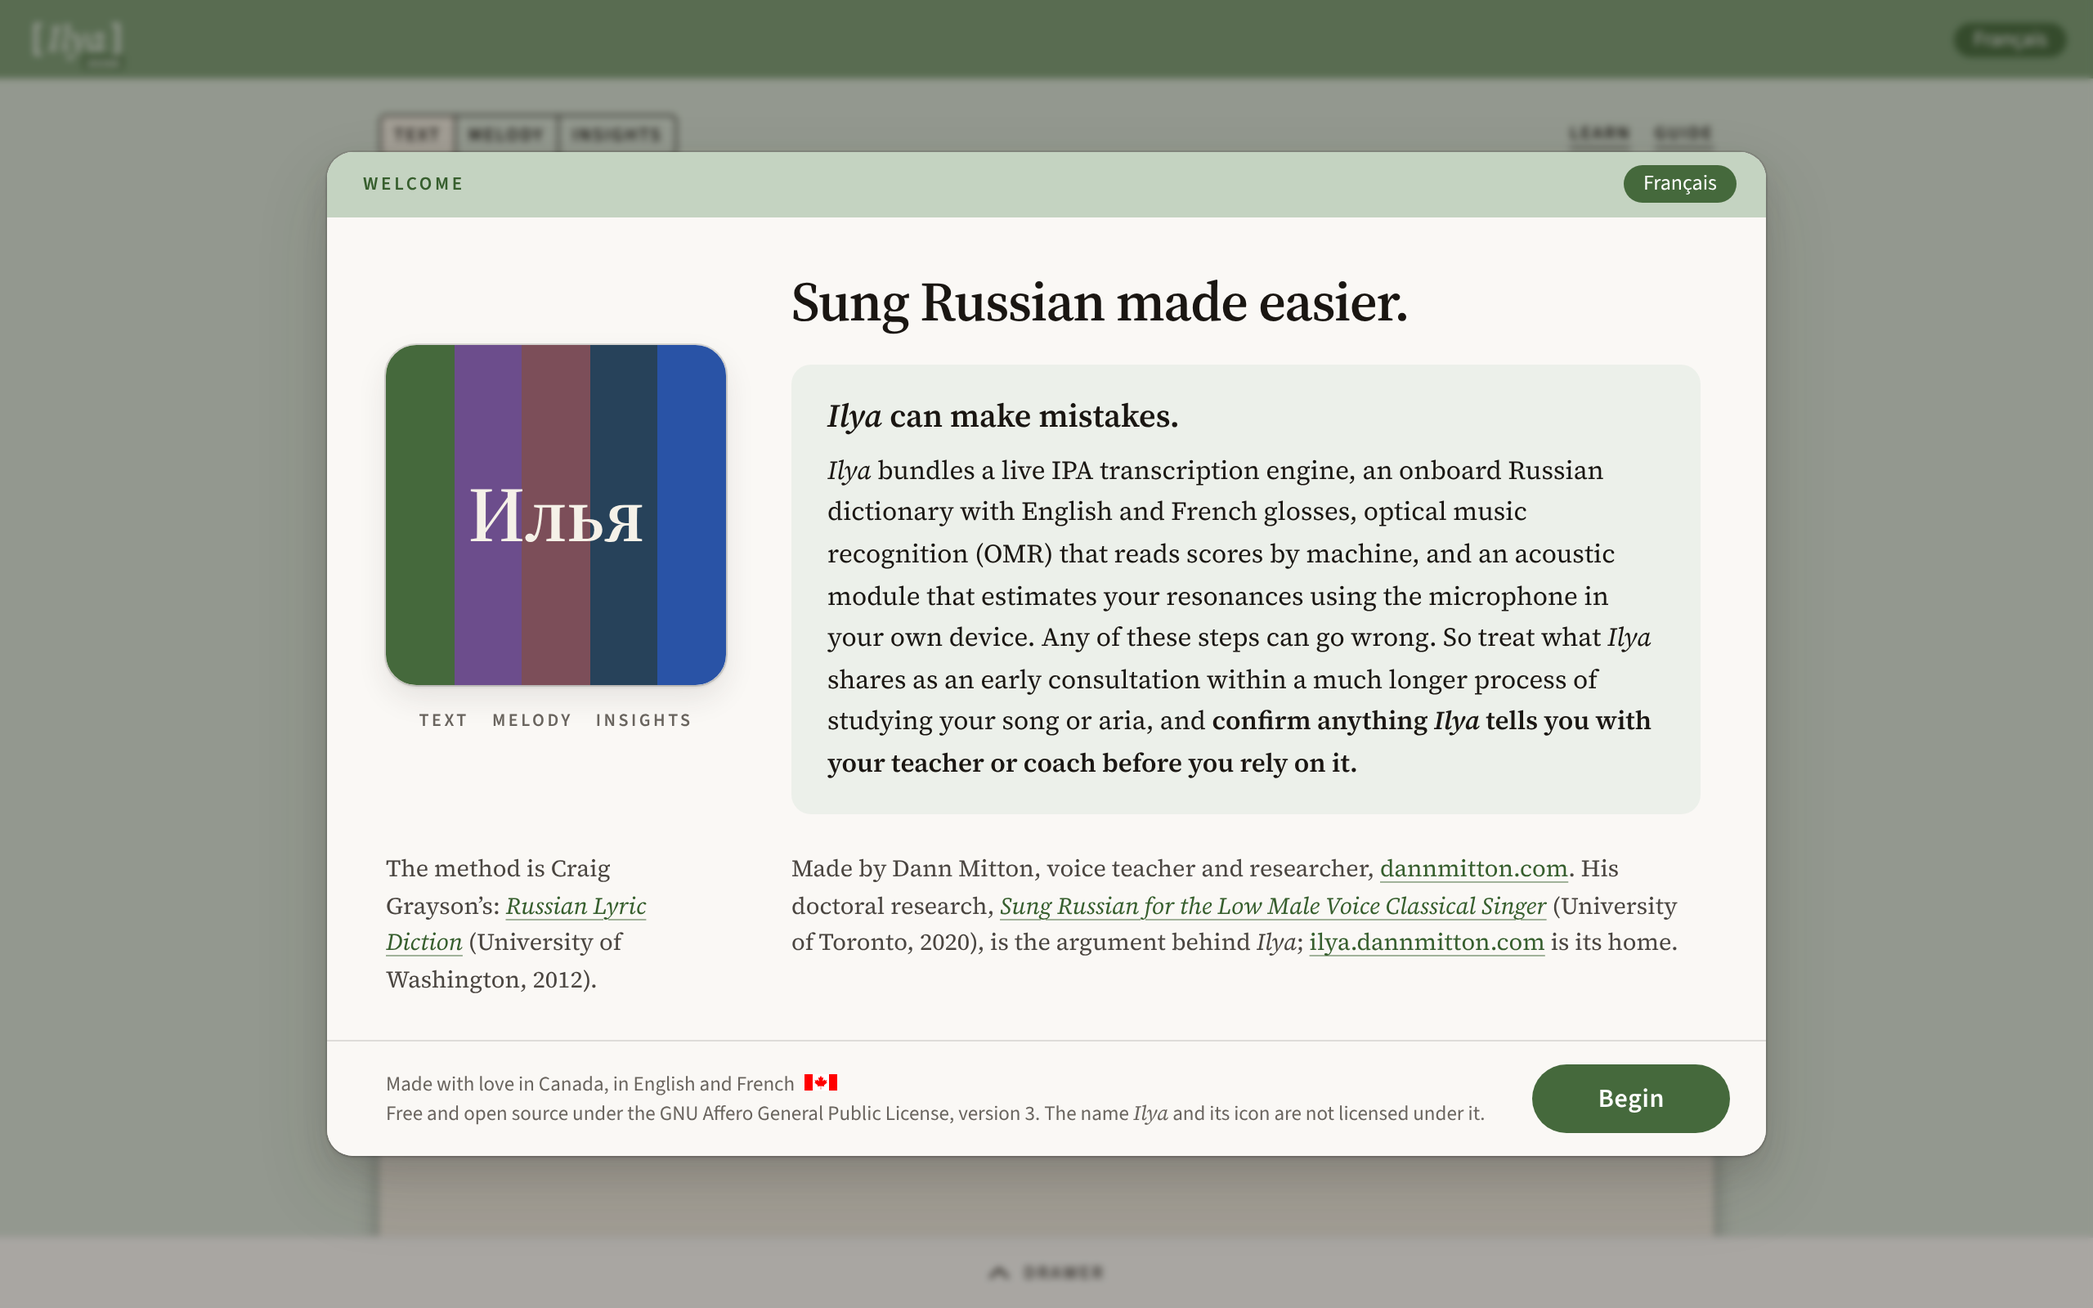
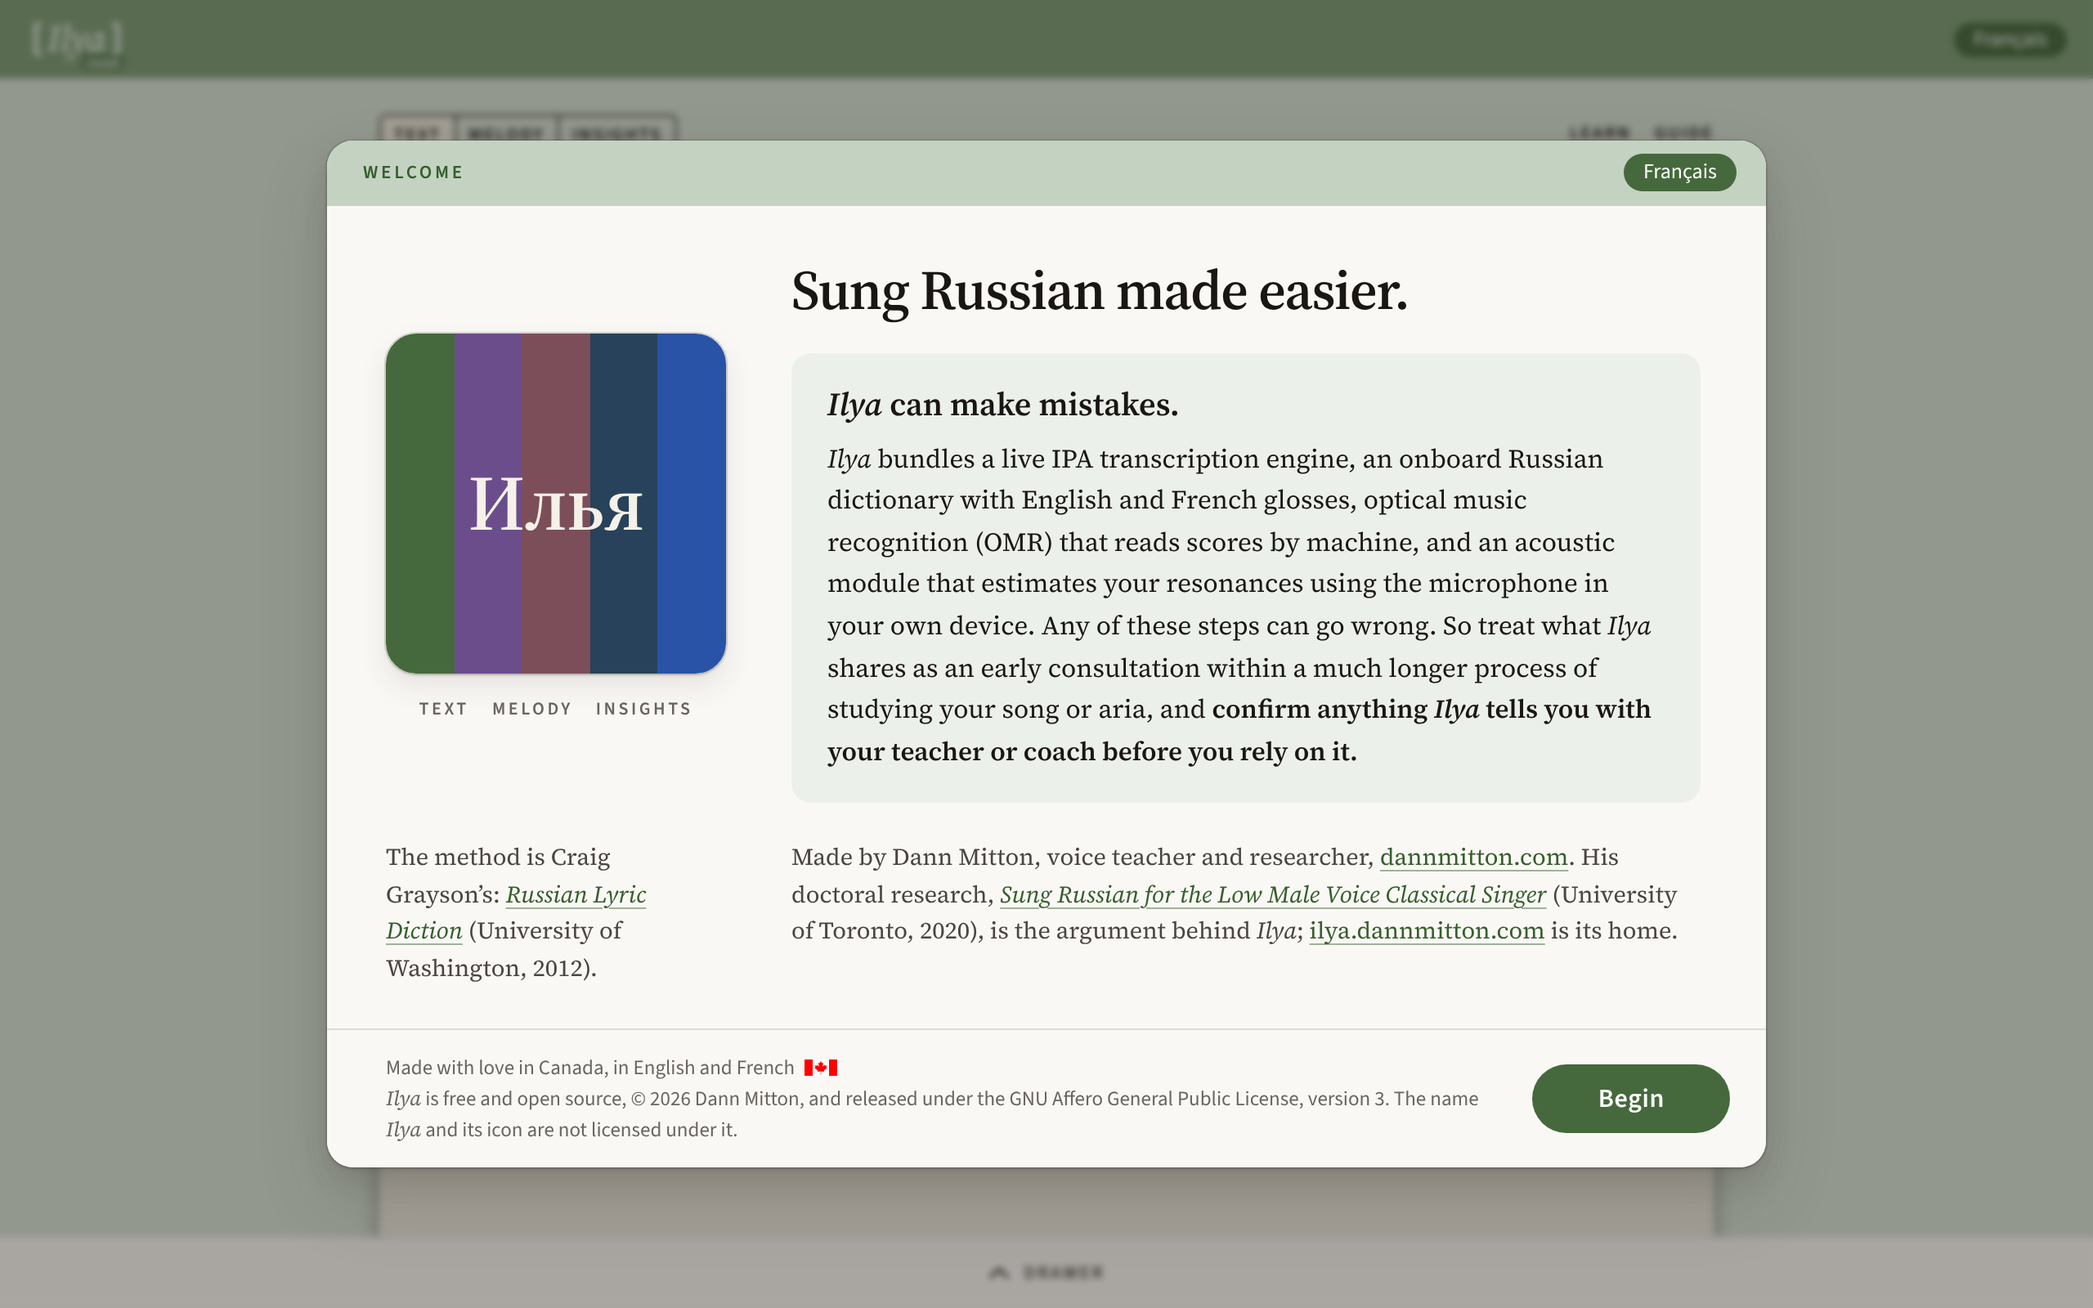
Welcome sheet: the English licence line carries the copyright, as the French does (Dann 2026-11-15 13:20)
Claude-Session: https://claude.ai/code/session_01Vk7wM5aNQf5Spwx7yyqbNN

diff --git a/apps/web/src/lib/welcome-strings.test.ts b/apps/web/src/lib/welcome-strings.test.ts
@@ -4,7 +4,11 @@
  * prototypes he ratified (`docs/sessions/welcome-sheet/ilya-welcome-draft-17.html` and `-17-fr.html`), not typed. Ratification is approval at a moment
  * (CONTRACT 11a): when Dann changes one, change it here in the same breath.
  *
- * The only difference from the prototype's markup is one attribute: each link opens in a new tab (`target="_blank" rel="noopener"`), as
+ * THE ENGLISH LICENCE LINE IS NOT THE PROTOTYPE'S. Ruled by Dann 2026-11-15 13:20: it carries the copyright as the French line does, and is the first two
+ * sentences of the GUIDE's ratified English paragraph (`GuideContent.svelte:579`) with both "Ilya" in italics and the prototype's no-break space before the 3. It supersedes
+ * the OPEN.md bullet that says to copy the licence line from the prototype, for English only. The French line is still the prototype's.
+ *
+ * The only other difference from the prototype's markup is one attribute: each link opens in a new tab (`target="_blank" rel="noopener"`), as
  * `footer.attribution`'s do, so a singer who follows one does not leave the sheet. The words, the tags, and the entities are the prototype's.
  */
 import { readFileSync } from 'node:fs';
@@ -19,7 +23,7 @@ const PAIRS: ReadonlyArray<readonly [string, string, string]> = [
 	['welcome.method', "The method is Craig Grayson’s: <a target=\"_blank\" rel=\"noopener\" href=\"https://hdl.handle.net/1773/20548\"><em>Russian Lyric Diction</em></a> (University of Washington, 2012).", "La méthode est celle de Craig Grayson : <a target=\"_blank\" rel=\"noopener\" href=\"https://hdl.handle.net/1773/20548\"><em>Russian Lyric Diction</em></a> (University of Washington, 2012)."],
 	['welcome.maker', "Made by Dann Mitton, voice teacher and researcher, <a target=\"_blank\" rel=\"noopener\" href=\"https://dannmitton.com\">dannmitton.com</a>. His doctoral research, <a target=\"_blank\" rel=\"noopener\" href=\"https://hdl.handle.net/1807/100864\"><em>Sung Russian for the Low Male Voice Classical Singer</em></a> (University of Toronto, 2020), is the argument behind <em>Ilya</em>; <a target=\"_blank\" rel=\"noopener\" href=\"https://ilya.dannmitton.com\">ilya.dannmitton.com</a> is its home.", "Créé par Dann Mitton, professeur de chant et chercheur, <a target=\"_blank\" rel=\"noopener\" href=\"https://dannmitton.com\">dannmitton.com</a>. Ses recherches doctorales, <a target=\"_blank\" rel=\"noopener\" href=\"https://hdl.handle.net/1807/100864\"><em>Sung Russian for the Low Male Voice Classical Singer</em></a> (University of Toronto, 2020), en fournissent l’argumentaire; <em>Ilya</em> vit à <a target=\"_blank\" rel=\"noopener\" href=\"https://ilya.dannmitton.com\">ilya.dannmitton.com</a>."],
 	['welcome.madeIn', "Made with love in Canada, in English and French", "Fait avec cœur au Canada, en anglais et en français"],
-	['welcome.licence', "Free and open source under the GNU Affero General Public License, version 3. The name <em>Ilya</em> and its icon are not licensed under it.", "<em>Ilya</em> est gratuit et à code ouvert, © 2026 Dann Mitton, et publié selon les termes de la licence publique générale GNU Affero, version 3. Le nom <em>Ilya</em> et son icône ne sont pas visés par cette licence."],
+	['welcome.licence', "<em>Ilya</em> is free and open source, © 2026 Dann Mitton, and released under the GNU Affero General Public License, version\u00a03. The name <em>Ilya</em> and its icon are not licensed under it.", "<em>Ilya</em> est gratuit et à code ouvert, © 2026 Dann Mitton, et publié selon les termes de la licence publique générale GNU Affero, version 3. Le nom <em>Ilya</em> et son icône ne sont pas visés par cette licence."],
 ];
 
 describe('the welcome sheet strings (OPEN.md, "THE WELCOME SHEET, EN AND FR, RATIFIED")', () => {
@@ -41,9 +45,20 @@ describe('the welcome sheet strings (OPEN.md, "THE WELCOME SHEET, EN AND FR, RAT
 		expect([t('tab.text', 'fr'), t('tab.markedScore', 'fr'), t('tab.insights', 'fr')]).toEqual(['TEXTE', 'CHANT', 'APERÇUS']);
 	});
 
-	it('keeps the licence line as each prototype has it, which is not one translation of the other (OPEN.md: both as ratified)', () => {
-		expect(t('welcome.licence', 'en')).not.toContain('2026');
-		expect(t('welcome.licence', 'fr')).toContain('© 2026 Dann Mitton');
+	it('carries the copyright in both languages: the English is the GUIDE\'s opening (Dann 2026-11-15 13:20), the French is the prototype\'s', () => {
+		expect(t('welcome.licence', 'en')).toContain('\u00a9 2026 Dann Mitton');
+		expect(t('welcome.licence', 'fr')).toContain('\u00a9 2026 Dann Mitton');
+		expect(t('welcome.licence', 'en').startsWith('<em>Ilya</em> is free and open source, ')).toBe(true);
+		expect(t('welcome.licence', 'en').match(/<em>Ilya<\/em>/g)).toHaveLength(2);
+		expect(t('welcome.licence', 'en')).toContain('version\u00a03.');
+	});
+
+	it('the English licence line is the first two sentences of the GUIDE\'s English paragraph, character for character, but for the no-break space before the 3', () => {
+		const guide = readFileSync(new URL('./components/Reading/GuideContent.svelte', import.meta.url), 'utf8');
+		const para = guide.match(/<p>(<em>Ilya<\/em> is free and open source, [^<]*(?:<em>Ilya<\/em>[^<]*)+)<\/p>/)![1];
+		const twoSentences = para.slice(0, para.indexOf(' It stands on the generosity'));
+		expect(twoSentences).toContain('version 3. The name');
+		expect(t('welcome.licence', 'en')).toBe(twoSentences.replace('version 3.', 'version\u00a03.'));
 	});
 });
 
@@ -54,11 +69,13 @@ describe('the welcome strings are copied from the two ratified prototypes', () =
 			.replace(/<a href=/g, '<a target="_blank" rel="noopener" href=');
 	const read = (name: string) => readFileSync(new URL(`../../../../docs/sessions/welcome-sheet/${name}`, import.meta.url), 'utf8').replace(/base64,[A-Za-z0-9+/=]{200,}/g, 'base64,');
 	for (const [lang, file] of [['en', 'ilya-welcome-draft-17.html'], ['fr', 'ilya-welcome-draft-17-fr.html']] as const) {
-		it(`${lang}: every string, and the licence line first, is in ${file}`, () => {
+		it(`${lang}: every string (the English licence line excepted) is in ${file}`, () => {
 			const html = read(file);
 			const licence = decode(html.match(/<p class="fine">\s*([^<]*(?:<em>Ilya<\/em>[^<]*)+)<\/p><\/div>\s*<button/)![1]).trim();
-			expect(t('welcome.licence', lang)).toBe(licence);
+			// The English licence line was changed by Dann's ruling of 2026-11-15 13:20 and is no longer the prototype's; the French one is.
+			if (lang === 'fr') expect(t('welcome.licence', lang)).toBe(licence);
 			for (const [key, en, fr] of PAIRS) {
+				if (key === 'welcome.licence' && lang === 'en') continue;
 				const want = lang === 'en' ? en : fr;
 				const raw = want.replace(/<a target="_blank" rel="noopener" href=/g, '<a href=');
 				const plain = (s: string) => s.replace(/&#(\d+);/g, (_, n) => String.fromCodePoint(Number(n)));

diff --git a/apps/web/src/lib/i18n.ts b/apps/web/src/lib/i18n.ts
@@ -2521,8 +2521,8 @@ const strings: Record<string, Record<Language, string>> = {
 	'capture.credit.noPlate': { en: 'Drawing: Dann Mitton. Bolla has no plate for this vowel.', fr: 'Dessin : Dann Mitton. Bolla ne donne pas de planche pour cette voyelle.' },
 	// THE WELCOME SHEET (lane cloud-lane-57, brief r2). RATIFIED by Dann 2026-11-15 01:30 (English and design) and 01:38 (French), `docs/memory/OPEN.md`,
 	// "THE WELCOME SHEET, EN AND FR, RATIFIED". Each value below was taken by script from the prototypes Dann ratified (`docs/sessions/welcome-sheet/
-	// ilya-welcome-draft-17.html` and `-17-fr.html`), not typed; `welcome-strings.test.ts` pins every pair against them. The licence line is each prototype's own
-	// (the two languages differ in what they say: the French has "© 2026 Dann Mitton", the English does not; both as ratified). The `<em>` tags and links render
+	// ilya-welcome-draft-17.html` and `-17-fr.html`), not typed; `welcome-strings.test.ts` pins every pair against them. The French licence line is the prototype's own; the English one is the GUIDE's ratified
+	// opening (`GuideContent.svelte:579`, first two sentences), ruled by Dann 2026-11-15 13:20, so both carry "© 2026 Dann Mitton". The `<em>` tags and links render
 	// with {@html}, like `footer.attribution`; the links open in a new tab (`target="_blank"`, as `footer.attribution`'s do) so a singer who follows one does not leave
 	// the sheet. The station labels reuse `tab.text`, `tab.markedScore`, and `tab.insights`; Begin reuses `calib.welcome.beginButton` (en "Begin", fr "Commencer").
 	// The "Made with love in Canada" line's flag is drawn by the component after an en space, as the prototype has it.
@@ -2533,7 +2533,7 @@ const strings: Record<string, Record<Language, string>> = {
 	'welcome.method': { en: 'The method is Craig Grayson\u2019s: <a target="_blank" rel="noopener" href="https://hdl.handle.net/1773/20548"><em>Russian Lyric Diction</em></a> (University of Washington, 2012).', fr: 'La méthode est celle de Craig Grayson\u00a0: <a target="_blank" rel="noopener" href="https://hdl.handle.net/1773/20548"><em>Russian Lyric Diction</em></a> (University of Washington, 2012).' },
 	'welcome.maker': { en: 'Made by Dann Mitton, voice teacher and researcher, <a target="_blank" rel="noopener" href="https://dannmitton.com">dannmitton.com</a>. His doctoral research, <a target="_blank" rel="noopener" href="https://hdl.handle.net/1807/100864"><em>Sung Russian for the Low Male Voice Classical Singer</em></a> (University of Toronto, 2020), is the argument behind <em>Ilya</em>; <a target="_blank" rel="noopener" href="https://ilya.dannmitton.com">ilya.dannmitton.com</a> is its home.', fr: 'Créé par Dann Mitton, professeur de chant et chercheur, <a target="_blank" rel="noopener" href="https://dannmitton.com">dannmitton.com</a>. Ses recherches doctorales, <a target="_blank" rel="noopener" href="https://hdl.handle.net/1807/100864"><em>Sung Russian for the Low Male Voice Classical Singer</em></a> (University of Toronto, 2020), en fournissent l\u2019argumentaire; <em>Ilya</em> vit à <a target="_blank" rel="noopener" href="https://ilya.dannmitton.com">ilya.dannmitton.com</a>.' },
 	'welcome.madeIn': { en: 'Made with love in Canada, in English and French', fr: 'Fait avec c\u0153ur au Canada, en anglais et en français' },
-	'welcome.licence': { en: 'Free and open source under the GNU Affero General Public License, version\u00a03. The name <em>Ilya</em> and its icon are not licensed under it.', fr: '<em>Ilya</em> est gratuit et à code ouvert, © 2026 Dann Mitton, et publié selon les termes de la licence publique générale GNU Affero, version\u00a03. Le nom <em>Ilya</em> et son icône ne sont pas visés par cette licence.' },
+	'welcome.licence': { en: '<em>Ilya</em> is free and open source, © 2026 Dann Mitton, and released under the GNU Affero General Public License, version\u00a03. The name <em>Ilya</em> and its icon are not licensed under it.', fr: '<em>Ilya</em> est gratuit et à code ouvert, © 2026 Dann Mitton, et publié selon les termes de la licence publique générale GNU Affero, version\u00a03. Le nom <em>Ilya</em> et son icône ne sont pas visés par cette licence.' },
 };
 
 /**

diff --git a/apps/web/e2e-phone/welcome-sheet.test.ts b/apps/web/e2e-phone/welcome-sheet.test.ts
@@ -40,7 +40,7 @@ test('phone: the made-in line and the licence line show once, inside the body', 
 	await visit(page);
 	await expect(page.locator('.sheet .fines.m')).toBeVisible();
 	await expect(page.locator('.foot .fines')).toBeHidden();
-	await expect(page.locator('.sheet .fines.m')).toContainText('Free and open source under the GNU Affero General Public License');
+	await expect(page.locator('.sheet .fines.m')).toContainText('Ilya is free and open source, © 2026 Dann Mitton, and released under the GNU Affero General Public License');
 });
 
 test('phone: Begin closes the sheet and writes the flag; the pill switches to French', async ({ page }) => {

diff --git a/apps/web/e2e/welcome-sheet.test.ts b/apps/web/e2e/welcome-sheet.test.ts
@@ -39,7 +39,7 @@ test.describe('a first visit', () => {
 		const vp = page.viewportSize()!;
 		expect(box.y + box.height).toBeLessThanOrEqual(vp.height);
 		await expect(sheetBox(page)).toContainText('Made with love in Canada, in English and French');
-		await expect(sheetBox(page)).toContainText('Free and open source under the GNU Affero General Public License, version 3.');
+		await expect(sheetBox(page)).toContainText('Ilya is free and open source, © 2026 Dann Mitton, and released under the GNU Affero General Public License, version 3.');
 	});
 
 	test('Escape does nothing, and Tab never leaves the sheet', async ({ page }) => {

diff --git a/docs/sessions/report-code-welcome-sheet_r1_2026-11-15.md b/docs/sessions/report-code-welcome-sheet_r1_2026-11-15.md
@@ -218,3 +218,37 @@ No test file that existed before this lane was edited. The one shared setup (`us
 - Branch `cloud-lane-57` is pushed. No pull request, nothing on `Shane` or `main`, nothing under `docs/memory/`, no brief edited.
 - New gate 4 baseline for the ship script, if this lane merges alone: 5863 passed | 1 skipped (5864).
 - Owed to Dann: (1) the note's horizontal place (Part 1, departure 3); (2) Bravura against Maestro for that one glyph (departure 1); (3) the shadow's tail (departure 5); (4) a control to reopen the sheet and the app icon files are outside this lane, as the brief says.
+
+## Amendment: the English licence line
+
+Ruled by Dann 2026-11-15 13:20, sent to this session by the desk while Part 2's Playwright runs were going; made after Part 2 was pushed, as its own commit. **Parts 0 to 2 above describe the lane before this amendment.** Where they say the English and French licence lines differ in having the copyright, or that gate 4 is 5863, this section supersedes them.
+
+### What changed
+
+- `apps/web/src/lib/i18n.ts`, key `welcome.licence`, English only:
+  `<em>Ilya</em> is free and open source, © 2026 Dann Mitton, and released under the GNU Affero General Public License, version 3. The name <em>Ilya</em> and its icon are not licensed under it.`
+  These are the first two sentences of the GUIDE's English paragraph at `GuideContent.svelte:579`, with both "Ilya" in `<em>` as the French line has them, and the no-break space before the 3 as the prototype's line has it (the GUIDE itself has a plain space there). The French line is untouched.
+- This supersedes, for English only, the `OPEN.md` bullet that says to copy the licence line from the prototype. `OPEN.md` and the prototypes were not edited.
+- `welcome-strings.test.ts`: the English pin moved to the new line. A new test reads `GuideContent.svelte`, takes the first two sentences of that paragraph, and asserts the sheet's English line equals them character for character except for the no-break space. The test that said the English line has no "2026" now says both lines carry "© 2026 Dann Mitton". The prototype-copy test still checks every other string and the French licence line against the prototypes, and skips only the English licence line.
+- `e2e/welcome-sheet.test.ts` and `e2e-phone/welcome-sheet.test.ts`: the one assertion each that quoted the old English line now quotes the new one. The sheet's 14 desktop and 3 phone browser tests pass on the amended tree.
+
+### Does the longer line change the layout? Desktop: a little. Phone: not in the footer.
+
+- **Desktop, 1280 x 800** (`desktop-en-final.png`, `desktop-en-mid-wipe.png`, retaken). The line is longer than the footer's text column, so it now wraps to two lines and the made-in line above it makes three. The footer is therefore about one line taller (read off the pictures: about 71 px before, about 84 px now; I did not measure it in the browser). The sheet is correspondingly taller and its top edge moved up by about the same amount; nothing else moved. **Begin is whole in the footer**, vertically centred against the three lines, with the licence text ending before it. The sheet still fits the 800 px viewport.
+- **Phone, 390 x 844.** The licence text is not in the footer on the phone: it is in the scrolling body (Part 1, departure 7). The footer is unchanged, 366 x 71 at (12, 761), with Begin 326 x 46 inside it, whole (measured in the browser). The longer line wraps to three lines in the body, under the maker's line and above the footer, and is visible when the body is scrolled to its end (`phone-en-final-scrolled-to-end.png`). `phone-en-final.png` and `phone-en-mid-wipe.png` were retaken and are byte-identical to the old ones, because the first screen does not reach that text.
+- I looked at `desktop-en-final.png`, `phone-en-final.png`, and `phone-en-final-scrolled-to-end.png` after the change. The two French pictures were not retaken because the French line did not change.
+
+### The eight gates on the final tree
+
+| gate | baseline | now |
+|---|---|---|
+| 1 phonology | 462 passed (462) | 462 passed (462) |
+| 2 dictionary | 248 passed (248) | 248 passed (248) |
+| 3 web-check | 0 errors, 12 warnings, 5 files | found 0 errors and 12 warnings in 5 files |
+| 4 web-test | 5817 passed \| 1 skipped (5818) | **5864 passed \| 1 skipped (5865)**, 330 files (+47 tests over the baseline: Part 1's 46 and this amendment's GUIDE test) |
+| 5 score-parser | 842 passed \| 5 skipped (847) | 842 passed \| 5 skipped (847) |
+| 6 blurb | 178 passed (178) | 178 passed (178) |
+| 7 integration | 159 passed (159) | 159 passed (159) |
+| 8 ratchets | OK | ratchets: OK. |
+
+**The new gate 4 baseline for the ship script, if this lane merges alone, is 5864 passed | 1 skipped (5865)** (Part 2 said 5863; it is superseded). The full Playwright suites were run before this amendment; after it I re-ran only the sheet's own browser tests (17 passed), because the amendment changes one string and no other code.
